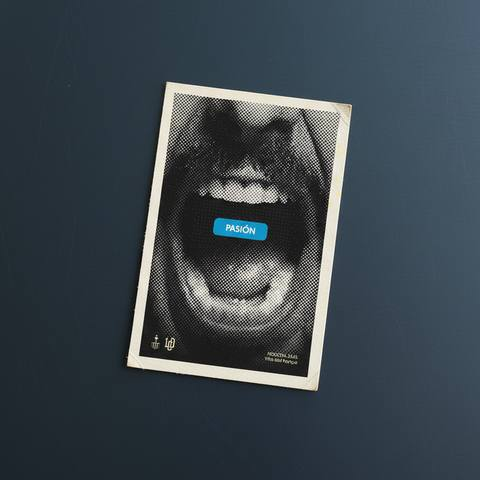
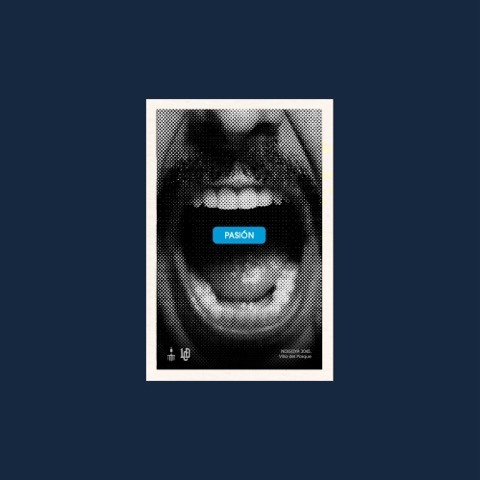
update: assets/home/card-02.jpg assets/lacade/00.jpg index.html

diff --git a/index.html b/index.html
@@ -1101,7 +1101,7 @@
     <div id="center-wrap">
       <img id="ojito" alt="" src="/assets/home/ojito.gif">
       <img class="stack-img" alt="Botella de vidrio ámbar de sérum facial sobre arena mojada, fotografía de producto cosmético" src="/assets/home/card-01.jpg">
-      <img class="stack-img" alt="Afiche gráfico en blanco y negro con una boca y una etiqueta azul, diseño editorial" src="/assets/home/card-02.jpg">
+      <img class="stack-img" alt="Afiche gráfico en blanco y negro con una boca y una etiqueta azul, diseño editorial" src="/assets/home/card-02.jpg?v=2">
       <img class="stack-img" alt="Primer plano de manos sosteniendo una pesa rusa (kettlebell), fotografía deportiva en tonos oscuros" src="/assets/home/card-03.jpg">
       <img class="stack-img" alt="Mujer usando un secador de pelo profesional negro y dorado, fotografía de campaña de belleza" src="/assets/home/card-04.jpg">
       <img class="stack-img" alt="Primer plano en blanco y negro de los ojos de Camila Arrieta Cruz, retrato" src="/assets/home/card-05.jpg">
@@ -2967,6 +2967,8 @@ const PROJECTS = [
     ogImage:'https://www.camilarrietacruz.com/og-image.jpg',
     coords:{ lat:-34.6039, lng:-58.4914, label:'VILLA DEL PARQUE' },
     media:[
+      // la primera es la misma foto que la card del home (la transición no cambia de imagen)
+      { type:'image', src:'/assets/lacade/00.jpg', w:2000, h:1996, alt:'Afiche de LACADÉ en blanco y negro: una boca gritando con la palabra "Pasión" en celeste, sobre fondo azul marino' },
       { type:'image', src:'/assets/lacade/01.jpg', w:1121, h:1400, alt:'Fachada de LACADÉ Bodegón de noche, con el cartel azul luminoso y el neón "Bodegón"' },
       { type:'image', src:'/assets/lacade/02.jpg', w:1600, h:900, alt:'Escudo de LACADÉ en azul y blanco sobre fondo azul marino' },
       { type:'image', src:'/assets/lacade/03.jpg', w:1280, h:852, alt:'Vista cenital de la mesa de LACADÉ con parrillada, empanadas, vino y entradas sobre manteles de rayas celestes' },
@@ -3548,7 +3550,14 @@ function enterProjectView(opts){
   const realSrc = itemImageSrc(target);
   // base: la foto real del proyecto; encima: la de la card, que se funde al llegar
   const fly = makeFlyer(realSrc || card.src, realSrc ? card.src : null, from);
+  // las fotos del carrusel se ocultan EN EL ACTO (sin su fade de 0.3s): si no, se
+  // veían un instante en su lugar mientras la imagen todavía volaba (doble imagen
+  // que "saltaba" al llegar)
+  const feedEl = ProjectView.feedEl();
+  feedEl.style.transition = 'none';
   projectViewEl.classList.add('pv-flying', 'pv-feed-hidden', 'pv-chrome-out', 'is-open');
+  void feedEl.offsetWidth;
+  feedEl.style.transition = '';
   ProjectView.pauseAuto(PV_FLY_MS + 700);
 
   const t0 = performance.now();
